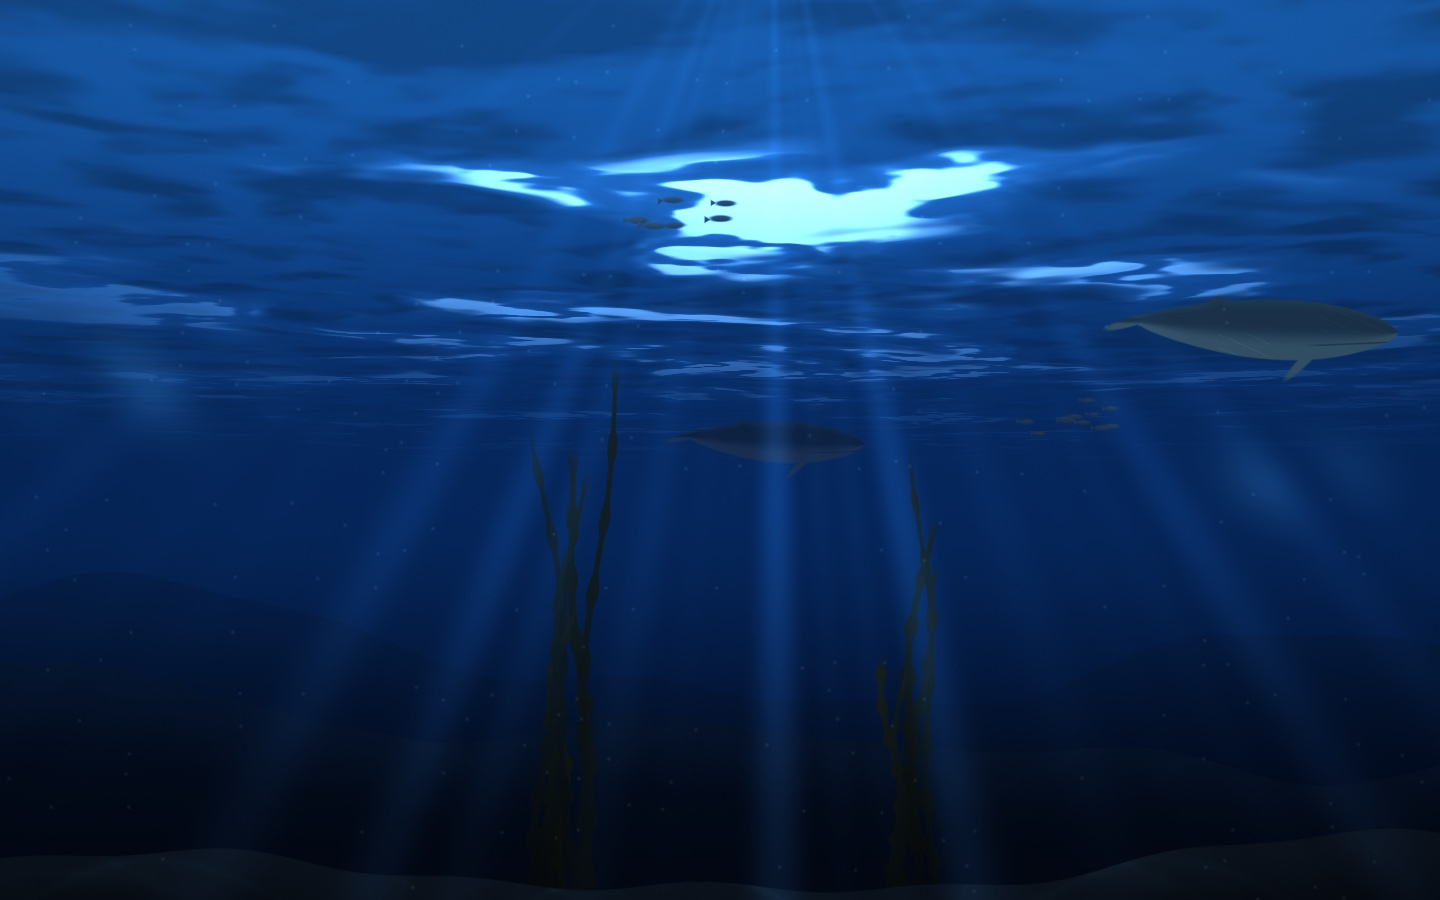
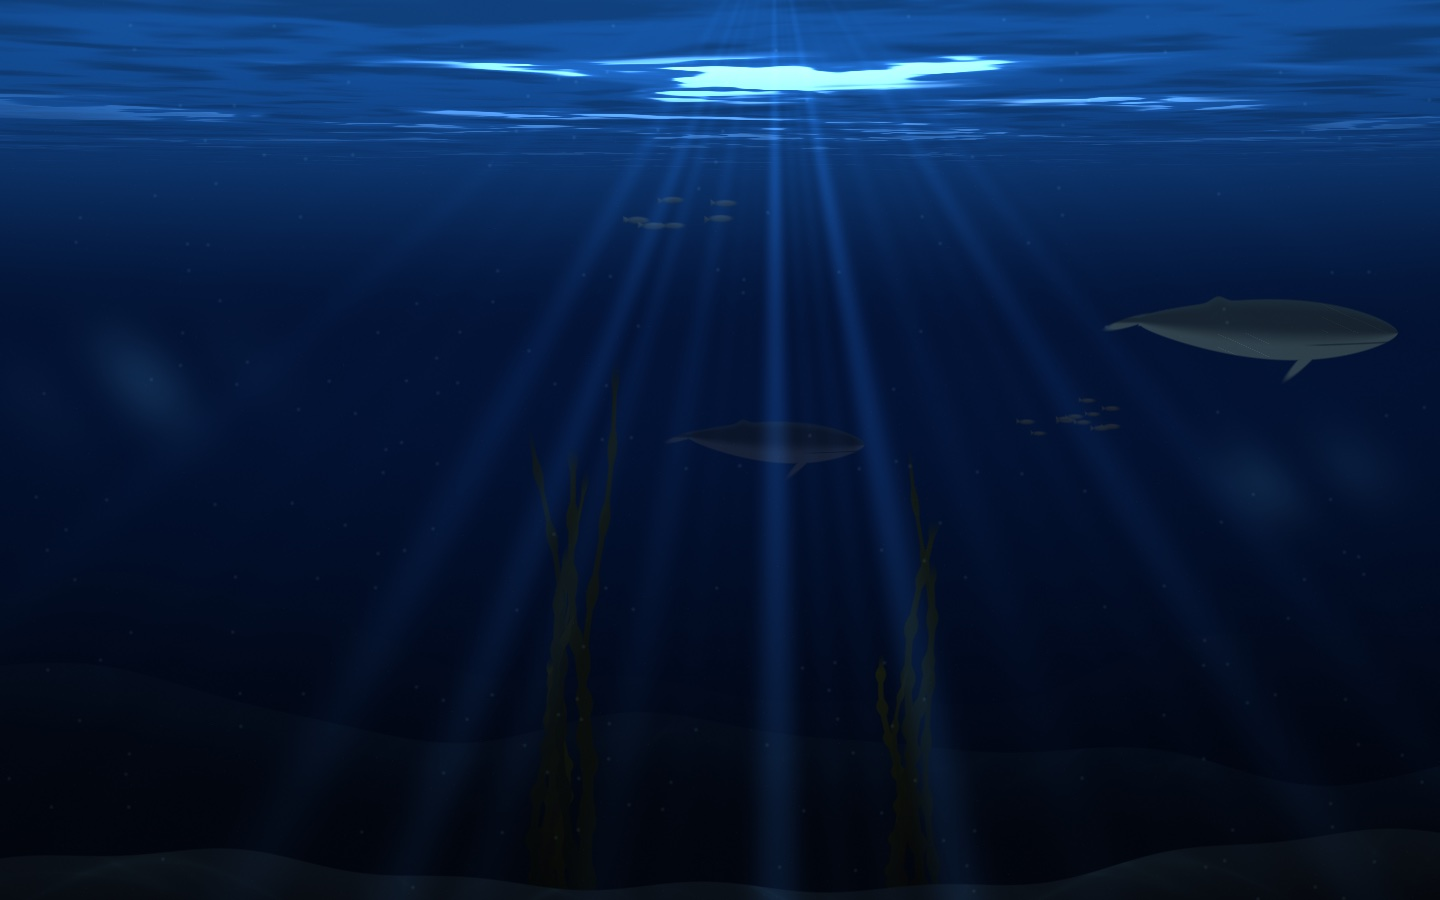
feat(scene): sunlit surface only in the top band, rays reach the seabed
Part of #7

diff --git a/macos/EchomereScene/Sources/CoveSceneRenderer/SceneShaders.swift b/macos/EchomereScene/Sources/CoveSceneRenderer/SceneShaders.swift
@@ -44,16 +44,16 @@ enum SceneShaders {
 
     // The camera looks slightly up: the underside of the surface fills the top of the picture in
     // perspective, down to this horizon (in screen height).
-    constant float HORIZON = 0.46;
-    constant float2 SUN = float2(0.86, 1.18);
+    constant float HORIZON = 0.80;
+    constant float2 SUN = float2(0.86, 1.10);
 
     // The colour of the water itself, deep blue at the bottom, lighter towards the surface.
     float3 water(float y) {
-        float3 deep = float3(0.003, 0.025, 0.085);
-        float3 middle = float3(0.020, 0.150, 0.360);
-        float3 high = float3(0.090, 0.360, 0.680);
-        float3 c = mix(deep, middle, smoothstep(0.0, HORIZON, y));
-        return mix(c, high, smoothstep(HORIZON, 1.0, y));
+        float3 deep = float3(0.002, 0.015, 0.055);
+        float3 middle = float3(0.010, 0.075, 0.210);
+        float3 high = float3(0.080, 0.330, 0.640);
+        float3 c = mix(deep, middle, smoothstep(0.0, 0.62, y));
+        return mix(c, high, smoothstep(0.62, 1.0, y));
     }
 
     float valueNoise(float2 p) {
@@ -77,10 +77,11 @@ enum SceneShaders {
     // The underside of the surface: bright patches where sunlight comes through the waves, separated by
     // darker, crinkled wave edges, brightest around the sun and fading into haze towards the horizon.
     float3 surfaceUnderside(float2 p, float t) {
-        float above = p.y - HORIZON;
-        float haze = smoothstep(0.0, 0.30, above);
+        // How far up the surface band this pixel is, 0 at the horizon and 1 at the top edge.
+        float above = (p.y - HORIZON) / (1.0 - HORIZON);
+        float haze = smoothstep(0.0, 0.55, above);
         if (above <= 0.0) return water(p.y);
-        float distance = 0.30 / (above + 0.02);
+        float distance = 0.30 / (above * 0.54 + 0.02);
         float2 s = float2((p.x - SUN.x) * distance, distance * 1.6) * 3.0;
         float2 drift = float2(t * 0.06, t * 0.04);
         float2 warp = float2(fbm(s * 0.45 + drift), fbm(s * 0.45 - drift.yx + 5.2));
@@ -89,7 +90,7 @@ enum SceneShaders {
         float patches = smoothstep(0.46, 0.66, n) * (1.0 - 0.65 * smoothstep(0.78, 0.96, ridge));
         float ripples = smoothstep(0.55, 0.95, ridge);
 
-        float2 toSun = (p - SUN) * float2(0.8, 1.0);
+        float2 toSun = (p - SUN) * float2(0.8, 2.2);
         float sun = exp(-dot(toSun, toSun) / 0.24);
 
         float3 c = water(p.y) * (0.82 + 0.25 * ripples);
@@ -105,10 +106,11 @@ enum SceneShaders {
         float rays = 0.5 + 0.5 * sin(angle * 61.0 + t * 0.05 + 1.5 * sin(angle * 7.0 + t * 0.03));
         rays *= 0.5 + 0.5 * sin(angle * 37.0 - t * 0.04 + 2.0);
         rays *= 0.6 + 0.4 * sin(angle * 13.0 + t * 0.02);
-        float reach = exp(-pow(length(d) / 1.35, 2.0));
-        float cone = exp(-angle * angle / 0.45);
-        float belowSurface = mix(1.0, 0.3, smoothstep(HORIZON - 0.05, HORIZON + 0.30, p.y));
-        return float3(0.06, 0.17, 0.30) * rays * reach * cone * belowSurface;
+        // The rays reach all the way down to the seabed, fading only slowly with depth.
+        float reach = mix(0.45, 1.0, exp(-pow(length(d) / 0.9, 2.0)));
+        float cone = exp(-angle * angle / 0.30);
+        float belowSurface = mix(1.0, 0.35, smoothstep(HORIZON - 0.05, 1.0, p.y));
+        return float3(0.05, 0.15, 0.28) * rays * reach * cone * belowSurface;
     }
 
     float3 fogged(float3 c, float depth, float y) {
